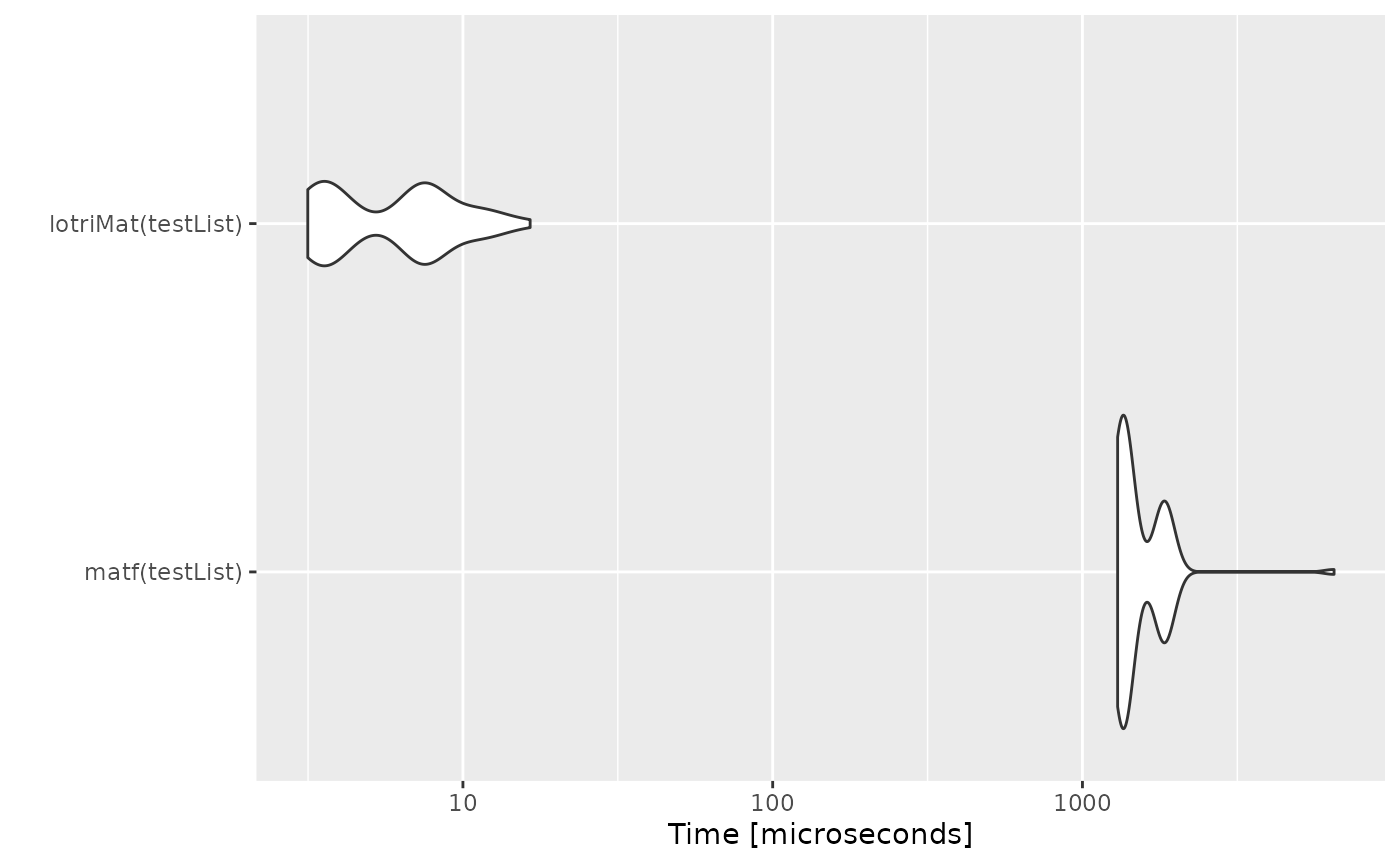
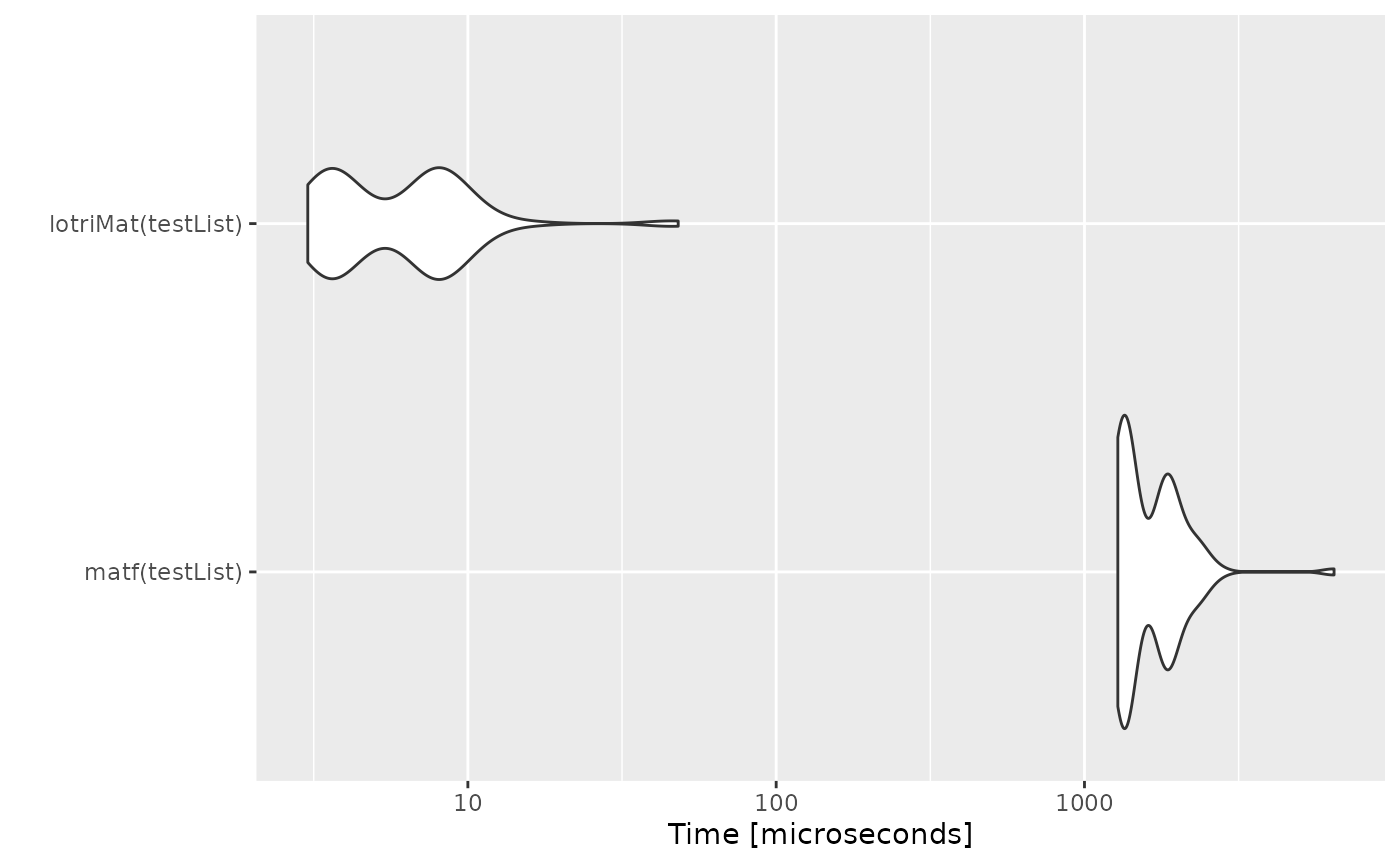
Deploying to gh-pages from @ nlmixr2/lotri@2c44b453fb38bd487d46baa8a1dd743ee6766aa1 🚀

diff --git a/reference/lotriIsBlockMat.html b/reference/lotriIsBlockMat.html
@@ -1,0 +1,124 @@
+<!DOCTYPE html>
+<!-- Generated by pkgdown: do not edit by hand --><html lang="en"><head><meta http-equiv="Content-Type" content="text/html; charset=UTF-8"><meta charset="utf-8"><meta http-equiv="X-UA-Compatible" content="IE=edge"><meta name="viewport" content="width=device-width, initial-scale=1, shrink-to-fit=no"><title>Determine if the matrix is a block matrix — lotriIsBlockMat • lotri</title><!-- favicons --><link rel="icon" type="image/png" sizes="16x16" href="../favicon-16x16.png"><link rel="icon" type="image/png" sizes="32x32" href="../favicon-32x32.png"><link rel="apple-touch-icon" type="image/png" sizes="180x180" href="../apple-touch-icon.png"><link rel="apple-touch-icon" type="image/png" sizes="120x120" href="../apple-touch-icon-120x120.png"><link rel="apple-touch-icon" type="image/png" sizes="76x76" href="../apple-touch-icon-76x76.png"><link rel="apple-touch-icon" type="image/png" sizes="60x60" href="../apple-touch-icon-60x60.png"><script src="../deps/jquery-3.6.0/jquery-3.6.0.min.js"></script><meta name="viewport" content="width=device-width, initial-scale=1, shrink-to-fit=no"><link href="../deps/bootstrap-5.3.1/bootstrap.min.css" rel="stylesheet"><script src="../deps/bootstrap-5.3.1/bootstrap.bundle.min.js"></script><link href="../deps/font-awesome-6.4.2/css/all.min.css" rel="stylesheet"><link href="../deps/font-awesome-6.4.2/css/v4-shims.min.css" rel="stylesheet"><script src="../deps/headroom-0.11.0/headroom.min.js"></script><script src="../deps/headroom-0.11.0/jQuery.headroom.min.js"></script><script src="../deps/bootstrap-toc-1.0.1/bootstrap-toc.min.js"></script><script src="../deps/clipboard.js-2.0.11/clipboard.min.js"></script><script src="../deps/search-1.0.0/autocomplete.jquery.min.js"></script><script src="../deps/search-1.0.0/fuse.min.js"></script><script src="../deps/search-1.0.0/mark.min.js"></script><!-- pkgdown --><script src="../pkgdown.js"></script><meta property="og:title" content="Determine if the matrix is a block matrix — lotriIsBlockMat"><meta name="description" content="Determine if the matrix is a block matrix"><meta property="og:description" content="Determine if the matrix is a block matrix"><meta property="og:image" content="https://nlmixr2.github.io/lotri/logo.png"></head><body>
+    <a href="#main" class="visually-hidden-focusable">Skip to contents</a>
+
+
+    <nav class="navbar navbar-expand-lg fixed-top bg-primary" data-bs-theme="dark" aria-label="Site navigation"><div class="container">
+
+    <a class="navbar-brand me-2" href="../index.html">lotri</a>
+
+    <small class="nav-text text-muted me-auto" data-bs-toggle="tooltip" data-bs-placement="bottom" title="">1.0.0</small>
+
+
+    <button class="navbar-toggler" type="button" data-bs-toggle="collapse" data-bs-target="#navbar" aria-controls="navbar" aria-expanded="false" aria-label="Toggle navigation">
+      <span class="navbar-toggler-icon"></span>
+    </button>
+
+    <div id="navbar" class="collapse navbar-collapse ms-3">
+      <ul class="navbar-nav me-auto"><li class="active nav-item"><a class="nav-link" href="../reference/index.html">Reference</a></li>
+<li class="nav-item dropdown">
+  <button class="nav-link dropdown-toggle" type="button" id="dropdown-articles" data-bs-toggle="dropdown" aria-expanded="false" aria-haspopup="true">Articles</button>
+  <ul class="dropdown-menu" aria-labelledby="dropdown-articles"><li><a class="dropdown-item" href="../articles/lotri-motivation.html">Lotri Motivation</a></li>
+  </ul></li>
+<li class="nav-item"><a class="nav-link" href="../news/index.html">Changelog</a></li>
+      </ul><ul class="navbar-nav"><li class="nav-item"><form class="form-inline" role="search">
+ <input class="form-control" type="search" name="search-input" id="search-input" autocomplete="off" aria-label="Search site" placeholder="Search for" data-search-index="../search.json"></form></li>
+<li class="nav-item"><a class="external-link nav-link" href="https://github.com/nlmixr2/lotri/" aria-label="GitHub"><span class="fa fab fa-github fa-lg"></span></a></li>
+      </ul></div>
+
+
+  </div>
+</nav><div class="container template-reference-topic">
+<div class="row">
+  <main id="main" class="col-md-9"><div class="page-header">
+      <img src="../logo.png" class="logo" alt=""><h1>Determine if the matrix is a block matrix</h1>
+      <small class="dont-index">Source: <a href="https://github.com/nlmixr2/lotri/blob/main/R/lotriMatInv.R" class="external-link"><code>R/lotriMatInv.R</code></a></small>
+      <div class="d-none name"><code>lotriIsBlockMat.Rd</code></div>
+    </div>
+
+    <div class="ref-description section level2">
+    <p>Determine if the matrix is a block matrix</p>
+    </div>
+
+    <div class="section level2">
+    <h2 id="ref-usage">Usage<a class="anchor" aria-label="anchor" href="#ref-usage"></a></h2>
+    <div class="sourceCode"><pre class="sourceCode r"><code><span><span class="fu">lotriIsBlockMat</span><span class="op">(</span><span class="va">mat</span><span class="op">)</span></span></code></pre></div>
+    </div>
+
+    <div class="section level2">
+    <h2 id="arguments">Arguments<a class="anchor" aria-label="anchor" href="#arguments"></a></h2>
+
+
+<dl><dt id="arg-mat">mat<a class="anchor" aria-label="anchor" href="#arg-mat"></a></dt>
+<dd><p>matrix to determine if it is a block matrix</p></dd>
+
+</dl></div>
+    <div class="section level2">
+    <h2 id="value">Value<a class="anchor" aria-label="anchor" href="#value"></a></h2>
+    <p>logical value, TRUE if it is a block matrix and FALSE
+  otherwise</p>
+    </div>
+    <div class="section level2">
+    <h2 id="author">Author<a class="anchor" aria-label="anchor" href="#author"></a></h2>
+    <p>Matthew L. Fidler</p>
+    </div>
+
+    <div class="section level2">
+    <h2 id="ref-examples">Examples<a class="anchor" aria-label="anchor" href="#ref-examples"></a></h2>
+    <div class="sourceCode"><pre class="sourceCode r"><code><span class="r-in"><span></span></span>
+<span class="r-in"><span><span class="va">m</span> <span class="op">&lt;-</span> <span class="fu"><a href="lotri.html">lotri</a></span><span class="op">(</span><span class="op">{</span></span></span>
+<span class="r-in"><span>  <span class="va">a</span> <span class="op">~</span> <span class="fu"><a href="https://rdrr.io/r/base/c.html" class="external-link">c</a></span><span class="op">(</span>a <span class="op">=</span> <span class="fl">0.4</span><span class="op">)</span></span></span>
+<span class="r-in"><span>  <span class="va">b</span> <span class="op">~</span> <span class="fu"><a href="https://rdrr.io/r/base/c.html" class="external-link">c</a></span><span class="op">(</span>a <span class="op">=</span> <span class="fl">0</span>, b <span class="op">=</span> <span class="fl">0.3</span><span class="op">)</span></span></span>
+<span class="r-in"><span>  <span class="va">c</span> <span class="op">~</span> <span class="fu"><a href="https://rdrr.io/r/base/c.html" class="external-link">c</a></span><span class="op">(</span>a <span class="op">=</span> <span class="fl">0</span>, b <span class="op">=</span> <span class="fl">0</span>, c <span class="op">=</span> <span class="fl">0</span><span class="op">)</span></span></span>
+<span class="r-in"><span>  <span class="va">d</span> <span class="op">~</span> <span class="fu"><a href="https://rdrr.io/r/base/c.html" class="external-link">c</a></span><span class="op">(</span>a <span class="op">=</span> <span class="op">-</span><span class="fl">0.1</span>, b <span class="op">=</span> <span class="fl">0</span>, c <span class="op">=</span> <span class="fl">0</span>, d <span class="op">=</span> <span class="fl">0.2</span><span class="op">)</span></span></span>
+<span class="r-in"><span>  <span class="va">e</span> <span class="op">~</span> <span class="fu"><a href="https://rdrr.io/r/base/c.html" class="external-link">c</a></span><span class="op">(</span>a <span class="op">=</span> <span class="fl">0</span>, b <span class="op">=</span> <span class="fl">0</span>, c <span class="op">=</span> <span class="fl">0</span>, d <span class="op">=</span> <span class="fl">0</span>, e <span class="op">=</span> <span class="fl">0.5</span><span class="op">)</span></span></span>
+<span class="r-in"><span>  <span class="va">f</span> <span class="op">~</span> <span class="fu"><a href="https://rdrr.io/r/base/c.html" class="external-link">c</a></span><span class="op">(</span>a <span class="op">=</span> <span class="fl">0</span>, b <span class="op">=</span> <span class="fl">0</span>, c <span class="op">=</span> <span class="fl">0</span>, d <span class="op">=</span> <span class="fl">0</span>, e <span class="op">=</span> <span class="fl">0</span>, f <span class="op">=</span> <span class="fl">1.3</span><span class="op">)</span></span></span>
+<span class="r-in"><span>  <span class="va">g</span> <span class="op">~</span> <span class="fu"><a href="https://rdrr.io/r/base/c.html" class="external-link">c</a></span><span class="op">(</span>a <span class="op">=</span> <span class="fl">0</span>, b <span class="op">=</span> <span class="fl">0</span>, c <span class="op">=</span> <span class="fl">0</span>, d <span class="op">=</span> <span class="fl">0</span>, e <span class="op">=</span> <span class="fl">0</span>, f <span class="op">=</span> <span class="op">-</span><span class="fl">0.6</span>, g <span class="op">=</span> <span class="fl">0.8</span><span class="op">)</span></span></span>
+<span class="r-in"><span>  <span class="va">h</span> <span class="op">~</span> <span class="fu"><a href="https://rdrr.io/r/base/c.html" class="external-link">c</a></span><span class="op">(</span>a <span class="op">=</span> <span class="fl">0</span>, b <span class="op">=</span> <span class="fl">0</span>, c <span class="op">=</span> <span class="fl">0</span>, d <span class="op">=</span> <span class="fl">0</span>, e <span class="op">=</span> <span class="fl">0</span>, f <span class="op">=</span> <span class="fl">0</span>, g <span class="op">=</span> <span class="fl">0</span>, h <span class="op">=</span> <span class="fl">0</span><span class="op">)</span></span></span>
+<span class="r-in"><span>  <span class="va">i</span> <span class="op">~</span> <span class="fu"><a href="https://rdrr.io/r/base/c.html" class="external-link">c</a></span><span class="op">(</span>a <span class="op">=</span> <span class="fl">0</span>, b <span class="op">=</span> <span class="fl">0</span>, c <span class="op">=</span> <span class="fl">0</span>, d <span class="op">=</span> <span class="fl">0</span>, e <span class="op">=</span> <span class="fl">0</span>, f <span class="op">=</span> <span class="fl">0</span>, g <span class="op">=</span> <span class="fl">0</span>, h <span class="op">=</span> <span class="fl">0</span>,</span></span>
+<span class="r-in"><span>        i <span class="op">=</span> <span class="fl">0.2</span><span class="op">)</span></span></span>
+<span class="r-in"><span>  <span class="va">j</span> <span class="op">~</span> <span class="fu"><a href="https://rdrr.io/r/base/c.html" class="external-link">c</a></span><span class="op">(</span>a <span class="op">=</span> <span class="fl">0</span>, b <span class="op">=</span> <span class="fl">0</span>, c <span class="op">=</span> <span class="fl">0</span>, d <span class="op">=</span> <span class="fl">0</span>, e <span class="op">=</span> <span class="fl">0</span>, f <span class="op">=</span> <span class="fl">0</span>, g <span class="op">=</span> <span class="fl">0</span>, h <span class="op">=</span> <span class="fl">0</span>,</span></span>
+<span class="r-in"><span>        i <span class="op">=</span> <span class="fl">0</span>, j <span class="op">=</span> <span class="fl">0.9</span><span class="op">)</span></span></span>
+<span class="r-in"><span>  <span class="va">k</span> <span class="op">~</span> <span class="fu"><a href="https://rdrr.io/r/base/c.html" class="external-link">c</a></span><span class="op">(</span>a <span class="op">=</span> <span class="fl">0</span>, b <span class="op">=</span> <span class="fl">0</span>, c <span class="op">=</span> <span class="fl">0</span>, d <span class="op">=</span> <span class="fl">0</span>, e <span class="op">=</span> <span class="fl">0</span>, f <span class="op">=</span> <span class="fl">0</span>, g <span class="op">=</span> <span class="fl">0</span>, h <span class="op">=</span> <span class="fl">0</span>,</span></span>
+<span class="r-in"><span>        i <span class="op">=</span> <span class="fl">0</span>, j <span class="op">=</span> <span class="fl">0</span>, k <span class="op">=</span> <span class="fl">0.9</span><span class="op">)</span></span></span>
+<span class="r-in"><span>  <span class="va">l</span> <span class="op">~</span> <span class="fu"><a href="https://rdrr.io/r/base/c.html" class="external-link">c</a></span><span class="op">(</span>a <span class="op">=</span> <span class="fl">0</span>, b <span class="op">=</span> <span class="fl">0</span>, c <span class="op">=</span> <span class="fl">0</span>, d <span class="op">=</span> <span class="fl">0</span>, e <span class="op">=</span> <span class="fl">0</span>, f <span class="op">=</span> <span class="fl">0</span>, g <span class="op">=</span> <span class="fl">0</span>, h <span class="op">=</span> <span class="fl">0</span>,</span></span>
+<span class="r-in"><span>        i <span class="op">=</span> <span class="fl">0</span>, j <span class="op">=</span> <span class="op">-</span><span class="fl">0.2</span>, k <span class="op">=</span> <span class="fl">0</span>, l <span class="op">=</span> <span class="fl">0.3</span><span class="op">)</span></span></span>
+<span class="r-in"><span>  <span class="va">m</span> <span class="op">~</span> <span class="fu"><a href="https://rdrr.io/r/base/c.html" class="external-link">c</a></span><span class="op">(</span>a <span class="op">=</span> <span class="fl">0</span>, b <span class="op">=</span> <span class="fl">0</span>, c <span class="op">=</span> <span class="fl">0</span>, d <span class="op">=</span> <span class="fl">0</span>, e <span class="op">=</span> <span class="fl">0</span>, f <span class="op">=</span> <span class="fl">0</span>, g <span class="op">=</span> <span class="fl">0</span>, h <span class="op">=</span> <span class="fl">0</span>,</span></span>
+<span class="r-in"><span>        i <span class="op">=</span> <span class="fl">0</span>, j <span class="op">=</span> <span class="fl">0</span>, k <span class="op">=</span> <span class="fl">0</span>, l <span class="op">=</span> <span class="fl">0</span>, m <span class="op">=</span> <span class="fl">2.1</span><span class="op">)</span></span></span>
+<span class="r-in"><span>  <span class="va">n</span> <span class="op">~</span> <span class="fu"><a href="https://rdrr.io/r/base/c.html" class="external-link">c</a></span><span class="op">(</span>a <span class="op">=</span> <span class="fl">0.2</span>, b <span class="op">=</span> <span class="fl">0</span>, c <span class="op">=</span> <span class="fl">0</span>, d <span class="op">=</span> <span class="fl">0.2</span>, e <span class="op">=</span> <span class="fl">0</span>, f <span class="op">=</span> <span class="fl">0</span>, g <span class="op">=</span> <span class="fl">0</span>,</span></span>
+<span class="r-in"><span>        h <span class="op">=</span> <span class="fl">0</span>, i <span class="op">=</span> <span class="fl">0</span>, j <span class="op">=</span> <span class="fl">0</span>, k <span class="op">=</span> <span class="fl">0</span>, l <span class="op">=</span> <span class="fl">0</span>, m <span class="op">=</span> <span class="fl">0</span>, n <span class="op">=</span> <span class="fl">0.4</span><span class="op">)</span></span></span>
+<span class="r-in"><span>  <span class="va">o</span> <span class="op">~</span> <span class="fu"><a href="https://rdrr.io/r/base/c.html" class="external-link">c</a></span><span class="op">(</span>a <span class="op">=</span> <span class="fl">0</span>, b <span class="op">=</span> <span class="fl">0</span>, c <span class="op">=</span> <span class="fl">0</span>, d <span class="op">=</span> <span class="fl">0</span>, e <span class="op">=</span> <span class="fl">0</span>, f <span class="op">=</span> <span class="op">-</span><span class="fl">1.1</span>, g <span class="op">=</span> <span class="fl">0.9</span>,</span></span>
+<span class="r-in"><span>        h <span class="op">=</span> <span class="fl">0</span>, i <span class="op">=</span> <span class="fl">0</span>, j <span class="op">=</span> <span class="fl">0</span>, k <span class="op">=</span> <span class="fl">0</span>, l <span class="op">=</span> <span class="fl">0</span>, m <span class="op">=</span> <span class="fl">0</span>, n <span class="op">=</span> <span class="fl">0</span>, o <span class="op">=</span> <span class="fl">4.7</span><span class="op">)</span></span></span>
+<span class="r-in"><span>  <span class="va">p</span> <span class="op">~</span> <span class="fu"><a href="https://rdrr.io/r/base/c.html" class="external-link">c</a></span><span class="op">(</span>a <span class="op">=</span> <span class="fl">0</span>, b <span class="op">=</span> <span class="fl">0</span>, c <span class="op">=</span> <span class="fl">0</span>, d <span class="op">=</span> <span class="fl">0</span>, e <span class="op">=</span> <span class="fl">0</span>, f <span class="op">=</span> <span class="fl">0</span>, g <span class="op">=</span> <span class="fl">0</span>, h <span class="op">=</span> <span class="fl">0</span>,</span></span>
+<span class="r-in"><span>        i <span class="op">=</span> <span class="fl">0</span>, j <span class="op">=</span> <span class="fl">0.5</span>, k <span class="op">=</span> <span class="fl">0</span>, l <span class="op">=</span> <span class="fl">0.2</span>, m <span class="op">=</span> <span class="fl">0</span>, n <span class="op">=</span> <span class="fl">0</span>, o <span class="op">=</span> <span class="fl">0</span>,</span></span>
+<span class="r-in"><span>       p <span class="op">=</span> <span class="fl">1.9</span><span class="op">)</span></span></span>
+<span class="r-in"><span><span class="op">}</span><span class="op">)</span></span></span>
+<span class="r-in"><span></span></span>
+<span class="r-in"><span><span class="fu">lotriIsBlockMat</span><span class="op">(</span><span class="va">m</span><span class="op">)</span></span></span>
+<span class="r-out co"><span class="r-pr">#&gt;</span> [1] FALSE</span>
+<span class="r-in"><span></span></span>
+<span class="r-in"><span><span class="fu">lotriIsBlockMat</span><span class="op">(</span><span class="fu"><a href="rcm.html">rcm</a></span><span class="op">(</span><span class="va">m</span><span class="op">)</span><span class="op">)</span></span></span>
+<span class="r-out co"><span class="r-pr">#&gt;</span> [1] TRUE</span>
+<span class="r-in"><span></span></span>
+</code></pre></div>
+    </div>
+  </main><aside class="col-md-3"><nav id="toc" aria-label="Table of contents"><h2>On this page</h2>
+    </nav></aside></div>
+
+
+    <footer><div class="pkgdown-footer-left">
+  <p>Developed by Matthew L. Fidler.</p>
+</div>
+
+<div class="pkgdown-footer-right">
+  <p>Site built with <a href="https://pkgdown.r-lib.org/" class="external-link">pkgdown</a> 2.1.0.</p>
+</div>
+
+    </footer></div>
+
+
+
+
+
+  </body></html>
+

diff --git a/reference/dot-lotriPointers.html b/reference/dot-lotriPointers.html
@@ -59,34 +59,34 @@
     <div class="sourceCode"><pre class="sourceCode r"><code><span class="r-in"><span></span></span>
 <span class="r-in"><span><span class="fu">.lotriPointers</span><span class="op">(</span><span class="op">)</span></span></span>
 <span class="r-out co"><span class="r-pr">#&gt;</span> $lotriLstToMat</span>
-<span class="r-out co"><span class="r-pr">#&gt;</span> &lt;pointer: 0x7f368937af40&gt;</span>
+<span class="r-out co"><span class="r-pr">#&gt;</span> &lt;pointer: 0x7f926efe7f40&gt;</span>
 <span class="r-out co"><span class="r-pr">#&gt;</span> </span>
 <span class="r-out co"><span class="r-pr">#&gt;</span> $asLotriMat</span>
-<span class="r-out co"><span class="r-pr">#&gt;</span> &lt;pointer: 0x7f36893791b0&gt;</span>
+<span class="r-out co"><span class="r-pr">#&gt;</span> &lt;pointer: 0x7f926efe61b0&gt;</span>
 <span class="r-out co"><span class="r-pr">#&gt;</span> </span>
 <span class="r-out co"><span class="r-pr">#&gt;</span> $lotriSep</span>
-<span class="r-out co"><span class="r-pr">#&gt;</span> &lt;pointer: 0x7f368937cf40&gt;</span>
+<span class="r-out co"><span class="r-pr">#&gt;</span> &lt;pointer: 0x7f926efe9f40&gt;</span>
 <span class="r-out co"><span class="r-pr">#&gt;</span> </span>
 <span class="r-out co"><span class="r-pr">#&gt;</span> $lotriAllNames</span>
-<span class="r-out co"><span class="r-pr">#&gt;</span> &lt;pointer: 0x7f368937d510&gt;</span>
+<span class="r-out co"><span class="r-pr">#&gt;</span> &lt;pointer: 0x7f926efea510&gt;</span>
 <span class="r-out co"><span class="r-pr">#&gt;</span> </span>
 <span class="r-out co"><span class="r-pr">#&gt;</span> $lotriGetBounds</span>
-<span class="r-out co"><span class="r-pr">#&gt;</span> &lt;pointer: 0x7f3689379750&gt;</span>
+<span class="r-out co"><span class="r-pr">#&gt;</span> &lt;pointer: 0x7f926efe6750&gt;</span>
 <span class="r-out co"><span class="r-pr">#&gt;</span> </span>
 <span class="r-out co"><span class="r-pr">#&gt;</span> $lotriMaxNu</span>
-<span class="r-out co"><span class="r-pr">#&gt;</span> &lt;pointer: 0x7f368937ca10&gt;</span>
+<span class="r-out co"><span class="r-pr">#&gt;</span> &lt;pointer: 0x7f926efe9a10&gt;</span>
 <span class="r-out co"><span class="r-pr">#&gt;</span> </span>
 <span class="r-out co"><span class="r-pr">#&gt;</span> $isLotri</span>
-<span class="r-out co"><span class="r-pr">#&gt;</span> &lt;pointer: 0x7f368937d3f0&gt;</span>
+<span class="r-out co"><span class="r-pr">#&gt;</span> &lt;pointer: 0x7f926efea3f0&gt;</span>
 <span class="r-out co"><span class="r-pr">#&gt;</span> </span>
 <span class="r-out co"><span class="r-pr">#&gt;</span> $lotriRcm</span>
-<span class="r-out co"><span class="r-pr">#&gt;</span> &lt;pointer: 0x7f3689388490&gt;</span>
+<span class="r-out co"><span class="r-pr">#&gt;</span> &lt;pointer: 0x7f926eff5490&gt;</span>
 <span class="r-out co"><span class="r-pr">#&gt;</span> </span>
 <span class="r-out co"><span class="r-pr">#&gt;</span> $lotriNearPDc</span>
-<span class="r-out co"><span class="r-pr">#&gt;</span> &lt;pointer: 0x7f36893827f0&gt;</span>
+<span class="r-out co"><span class="r-pr">#&gt;</span> &lt;pointer: 0x7f926efef7f0&gt;</span>
 <span class="r-out co"><span class="r-pr">#&gt;</span> </span>
 <span class="r-out co"><span class="r-pr">#&gt;</span> $lotriNearPDsexp</span>
-<span class="r-out co"><span class="r-pr">#&gt;</span> &lt;pointer: 0x7f3689382d60&gt;</span>
+<span class="r-out co"><span class="r-pr">#&gt;</span> &lt;pointer: 0x7f926efefd60&gt;</span>
 <span class="r-out co"><span class="r-pr">#&gt;</span> </span>
 </code></pre></div>
     </div>

diff --git a/news/index.html b/news/index.html
@@ -62,7 +62,7 @@
 <span><span class="op">}</span><span class="op">)</span></span></code></pre></div>
 <p>This way changing to an R parsed expression will be rendered in a more human readable format.</p>
 <ul><li><p>New option of <code>cov</code> added which check for matrix suitability for covariance matrix. When <code>cov=TRUE</code>, off-diagonal elements in covariance matrices may no longer be nonzero if the diagonal value is zero (rxode2#481). This will also check tht the matrix is non-positive definite on the non-diagonal terms. <code>cov</code> can also be a function to allow correction of the matrix to a positive definite matrix automatically.</p></li>
-<li><p>New option of <code>rcm</code>; When enabled, and <code>lotriIsBlockMat()</code> is not true, <code><a href="../reference/lotri.html">lotri()</a></code> will permute the matrix to try to get a banded matrix using the Reverse Cuthill McKee algorithm.</p></li>
+<li><p>New option of <code>rcm</code>; When enabled, and <code><a href="../reference/lotriIsBlockMat.html">lotriIsBlockMat()</a></code> is not true, <code><a href="../reference/lotri.html">lotri()</a></code> will permute the matrix to try to get a banded matrix using the Reverse Cuthill McKee algorithm.</p></li>
 <li><p>Change internals for <code>lotri</code> so that new <code>rxode2</code> is no longer required to be binary linked to <code>lotri</code>.</p></li>
 <li><p>Add new function <code><a href="../reference/rcm.html">rcm()</a></code> which permutes the matrix to get a band matrix (if possible). This uses the Reverse Reverse Cuthill McKee (RCM) algorithm.</p></li>
 <li><p>Moved <code>nmNearPD()</code> to this package and renamed to <code><a href="../reference/lotriNearPD.html">lotriNearPD()</a></code>. In addition to moving, this function will now retain the dimension names.</p></li>
@@ -92,7 +92,7 @@
 <li><p>Add error for <code>lotri(~c(40))</code></p></li>
 <li><p>Added ability to flag <code>fixed</code> and <code>unfixed</code> components in a matrix. Currently <code>lotri</code> only supports one type.</p></li>
 <li><p>For the <code>lotriFix</code> objects, ie those created with population types of estimates and covariance estimates, allow them to be converted to an equivalent expression with <code><a href="https://rdrr.io/r/base/expression.html" class="external-link">as.expression()</a></code> for the lotri object and <code><a href="../reference/lotriDataFrameToLotriExpression.html">lotriDataFrameToLotriExpression()</a></code> for the <code>data.frame</code></p></li>
-<li><p>Added <code>lotriIsBlockMat()</code> to check to see if a matrix is in a block diagonal matrix form.</p></li>
+<li><p>Added <code><a href="../reference/lotriIsBlockMat.html">lotriIsBlockMat()</a></code> to check to see if a matrix is in a block diagonal matrix form.</p></li>
 </ul></div>
     <div class="section level2">
 <h2 class="pkg-version" data-toc-text="0.3.1" id="lotri-031">lotri 0.3.1<a class="anchor" aria-label="anchor" href="#lotri-031"></a></h2><p class="text-muted">CRAN release: 2021-01-05</p>

diff --git a/articles/lotri-motivation.html b/articles/lotri-motivation.html
@@ -228,9 +228,9 @@ concatenation with <code>lotriMat</code></p>
 <span></span>
 <span><span class="fu"><a href="https://rdrr.io/r/base/print.html" class="external-link">print</a></span><span class="op">(</span><span class="va">mb</span><span class="op">)</span></span>
 <span><span class="co">#&gt; Unit: microseconds</span></span>
-<span><span class="co">#&gt;                expr      min       lq       mean   median       uq      max</span></span>
-<span><span class="co">#&gt;      matf(testList) 1299.001 1338.990 1554.50839 1381.385 1815.740 6491.230</span></span>
-<span><span class="co">#&gt;  lotriMat(testList)    3.156    3.652    6.46085    7.013    7.794   16.481</span></span>
+<span><span class="co">#&gt;                expr      min       lq       mean   median        uq      max</span></span>
+<span><span class="co">#&gt;      matf(testList) 1282.951 1342.597 1685.12833 1416.215 1857.1210 6450.632</span></span>
+<span><span class="co">#&gt;  lotriMat(testList)    3.025    3.712    7.01641    6.823    8.3605   48.110</span></span>
 <span><span class="co">#&gt;  neval</span></span>
 <span><span class="co">#&gt;    100</span></span>
 <span><span class="co">#&gt;    100</span></span>

diff --git a/reference/index.html b/reference/index.html
@@ -77,6 +77,12 @@
         <dd>Extract or remove lotri estimate data frame from lotri object</dd>
       </dl><dl><dt>
 
+          <code><a href="lotriIsBlockMat.html">lotriIsBlockMat()</a></code>
+
+        </dt>
+        <dd>Determine if the matrix is a block matrix</dd>
+      </dl><dl><dt>
+
           <code><a href="lotriMat.html">lotriMat()</a></code>
 
         </dt>
